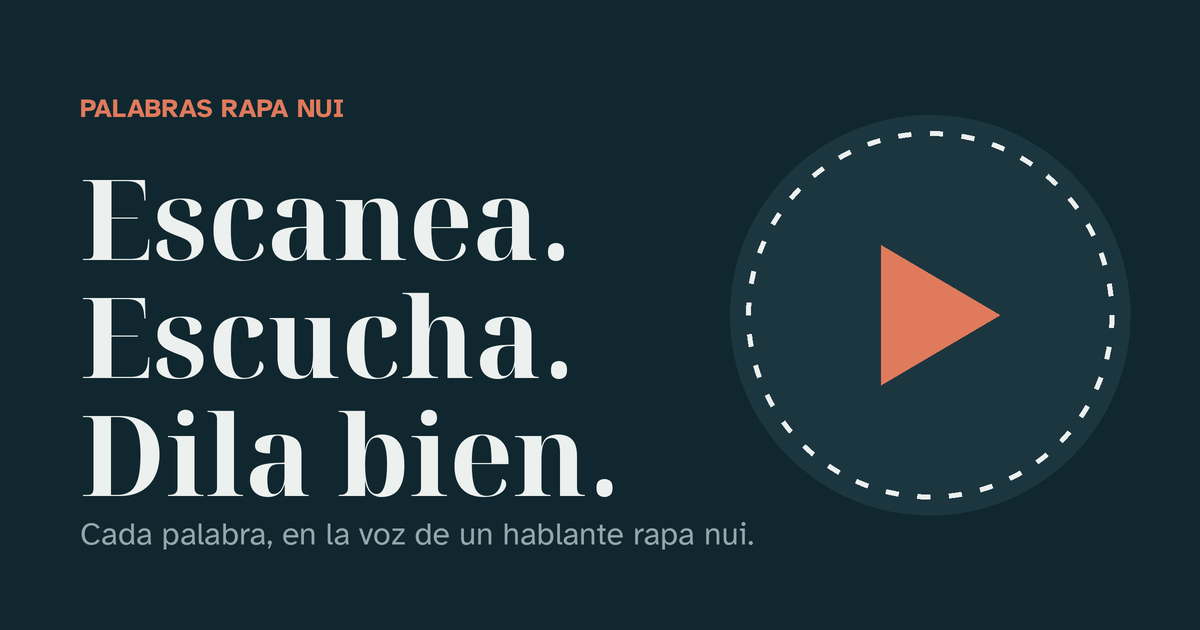
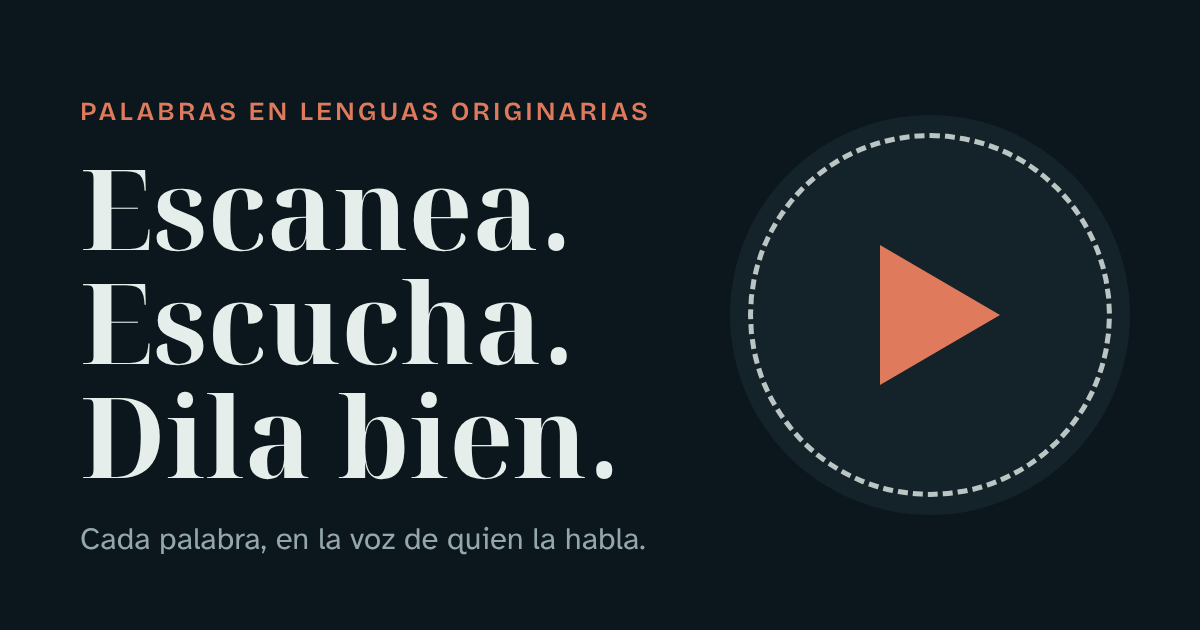
Imagen para compartir genérica (sirve para todas las lenguas) y dunguain.cl en el LEEME
Claude-Session: https://claude.ai/code/session_01TM8QRYS177tp92Bc9q1Kbn

diff --git a/LEEME.md b/LEEME.md
@@ -10,6 +10,7 @@ Un solo sistema atiende a todas las lenguas:
 | `aprenda.imita.cl` | Vitrina para explorar y escuchar todas las lenguas: palabra del día, filtro por lengua, tocar para escuchar |
 | `panel.imita.cl` | Panel central (lleva a `/admin`) |
 | `vananga.cl` | Sitio de rapa nui: colección y una página por palabra (`/p/vave`) |
+| `dunguain.cl` | Sitio de mapudungun |
 | `cualquier-dominio/l/<código>` | Sitio de una lengua sin dominio propio, por ejemplo `/l/mapudungun/p/ruka` |
 
 ## El panel
@@ -63,7 +64,7 @@ Variables de entorno (*Project configuration → Environment variables*):
 - `CLAVE_PREVIA` (opcional, antes del lanzamiento): si está, todos los sitios piden esa clave para entrar, salvo `imita.cl` y el panel. La clave se pide una vez por dominio y dura 30 días en ese navegador; tras 5 intentos fallidos esa conexión espera 15 minutos. Para lanzar, se borra la variable y se publica de nuevo. En Netlify, *Visitor access* debe quedar en **Public**.
 - `CONTACTO_IMITA` (opcional): correo de contacto que aparece en imita.cl y en aprenda.imita.cl.
 
-Dominios (*Domain management*): agregar `vananga.cl`, `www.vananga.cl`, `imita.cl`, `www.imita.cl`, `aprenda.imita.cl` y `panel.imita.cl` al mismo proyecto. Netlify activa HTTPS solo.
+Dominios (*Domain management*): agregar `vananga.cl`, `www.vananga.cl`, `dunguain.cl`, `www.dunguain.cl`, `imita.cl`, `www.imita.cl`, `aprenda.imita.cl` y `panel.imita.cl` al mismo proyecto. Netlify activa HTTPS solo.
 
 ## Agregar una lengua nueva
 
